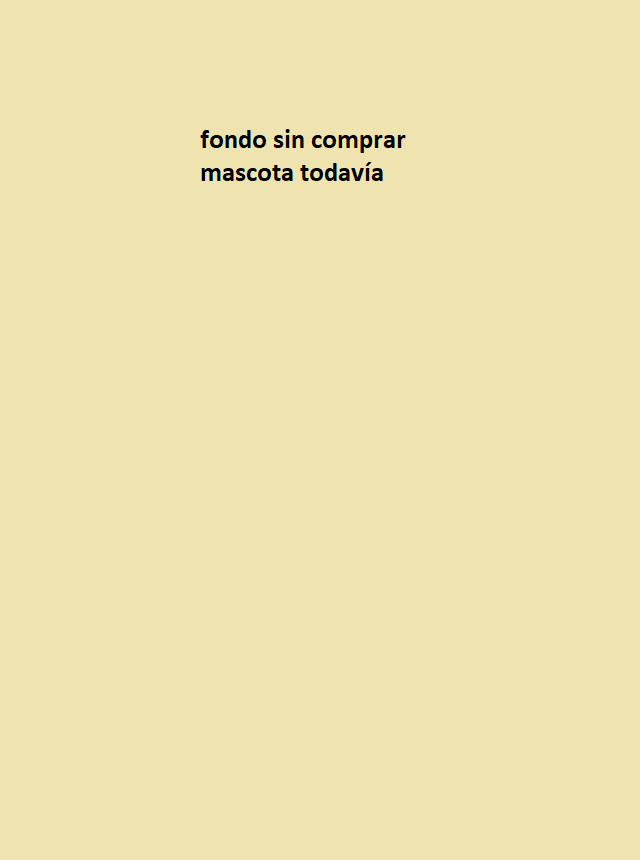
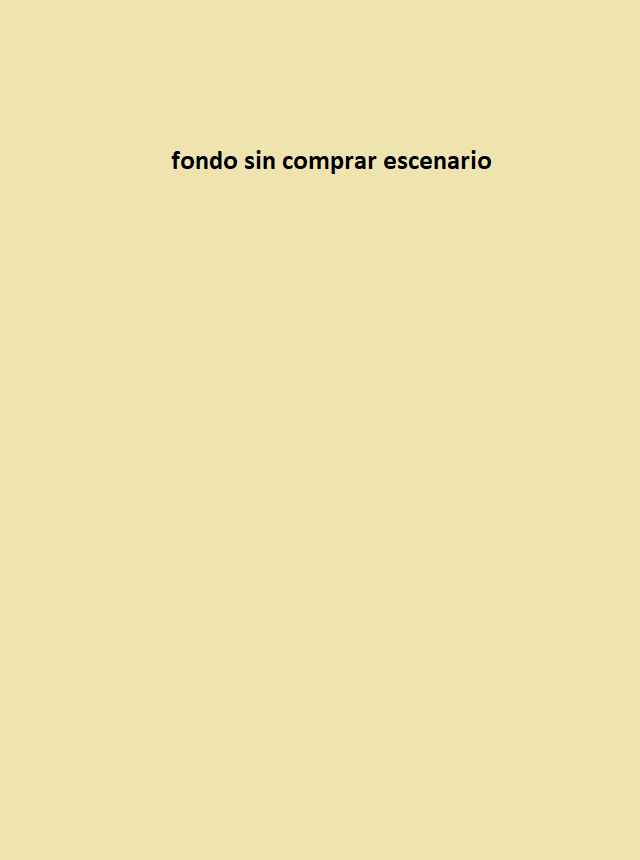
Implementación de que sea posible tener varios paneles escenario a la vez, y que VentanaPrincipal decida crearlos dependiendo de si los paneles existentes contienen un escenario o no.

Changed region(s): [[0.25, 0.1512, 0.7812, 0.2116]]

diff --git a/src/main/java/org/udec/visual/VentanaPrincipal.java b/src/main/java/org/udec/visual/VentanaPrincipal.java
@@ -2,20 +2,29 @@ package org.udec.visual;
 
 import javax.swing.*;
 import java.awt.*;
+import java.util.ArrayList;
 import java.util.List;
 
-public class VentanaPrincipal extends JFrame {
+public class VentanaPrincipal extends JFrame implements EscenarioListener{
 
     public static final int ANCHO = 640;
     public static final int ALTO = 860;
 
+    // Panel que contiene los escenarios
     private JPanel cardPanel;
     private CardLayout cardLayout;
     private List<PanelEscenario> panelesEscenario;
 
+    // Variables para controlar paneles de escenario.
     private int indiceActual = 0;
     private int contadorPaneles = 0;
     private final int MAX_PANELES = 10; // Cantidad máxima de escenarios que pueden existir.
+
+    // Panel que permite poner botones superpuestos a los paneles de escenario
+    private JLayeredPane panelCapas;
+    private JButton botonIzquierda;
+    private JButton botonDerecha;
+    private JLabel labelIndice;
 
     public VentanaPrincipal(){
         this.setTitle("Simulador de mascota");
@@ -24,7 +33,85 @@ public class VentanaPrincipal extends JFrame {
         this.setResizable(false);
         this.setLocationRelativeTo(null);
 
-        this.add(new PanelEscenario());
+        panelCapas = new JLayeredPane();
+        panelCapas.setPreferredSize(new Dimension(ANCHO, ALTO));
+        panelCapas.setLayout(null);
+
+        cardPanel = new JPanel();
+        cardLayout = new CardLayout();
+        cardPanel.setLayout(cardLayout);
+        cardPanel.setBounds(0, 0, ANCHO, ALTO);
+
+        panelesEscenario = new ArrayList<>();
+        PanelEscenario panelInicial = new PanelEscenario();
+        addPanelToCardLayout(panelInicial);
+
+        // Botones de navegación
+        botonIzquierda = new JButton("<");
+        botonIzquierda.setBounds(20, ALTO / 2 - 40, 60, 40);
+        botonIzquierda.setFocusable(false);
+        botonIzquierda.addActionListener(e -> cambiarPanel(-1));
+
+        botonDerecha = new JButton(">");
+        botonDerecha.setBounds(ANCHO - 80, ALTO / 2 - 40, 60, 40);
+        botonDerecha.setFocusable(false);
+        botonDerecha.addActionListener(e -> cambiarPanel(1));
+
+
+        // Label para mostrar el índice actual
+        labelIndice = new JLabel();
+        labelIndice.setFont(new Font("Arial", Font.BOLD, 16));
+        labelIndice.setHorizontalAlignment(SwingConstants.CENTER);
+        labelIndice.setBounds(0, 10, ANCHO, 30);
+        actualizarLabelIndice();
+
+
+        // Añadir componentes al layeredPane
+        panelCapas.add(cardPanel, JLayeredPane.DEFAULT_LAYER);
+        panelCapas.add(botonIzquierda, JLayeredPane.PALETTE_LAYER);
+        panelCapas.add(botonDerecha, JLayeredPane.PALETTE_LAYER);
+        panelCapas.add(labelIndice, JLayeredPane.PALETTE_LAYER);
+
+        this.setContentPane(panelCapas);
+        this.pack();
         this.setVisible(true);
     }
+
+    // Método auxiliar para añadir paneles y mantener el contador
+    private void addPanelToCardLayout(PanelEscenario panel) {
+        panel.setEscenarioListener(this);
+        panelesEscenario.add(panel);
+        cardPanel.add(panel, "Panel" + contadorPaneles);
+        contadorPaneles++;
+    }
+
+    // Método para actualizar el texto del label
+    private void actualizarLabelIndice() {
+        labelIndice.setText((indiceActual + 1) + " / " + panelesEscenario.size());
+    }
+
+    private void cambiarPanel(int direccion) {
+        int totalPaneles = panelesEscenario.size();
+        indiceActual = (indiceActual + direccion + totalPaneles) % totalPaneles;
+        cardLayout.show(cardPanel, "Panel" + indiceActual);
+        actualizarLabelIndice();
+    }
+
+
+    private boolean todosTienenEscenario() {
+        for (PanelEscenario p : panelesEscenario) {
+            if (!p.tieneEscenario()) return false;
+        }
+        return true;
+    }
+
+    @Override
+    public void escenarioInicializado(PanelEscenario panel) {
+        if(contadorPaneles < MAX_PANELES && todosTienenEscenario()){
+            PanelEscenario nuevoPanel = new PanelEscenario();
+            addPanelToCardLayout(nuevoPanel);
+            actualizarLabelIndice();
+        }
+    }
+
 }

diff --git a/src/main/java/org/udec/visual/PanelEscenario.java b/src/main/java/org/udec/visual/PanelEscenario.java
@@ -11,10 +11,13 @@ public class PanelEscenario extends JPanel {
 
     private Escenario escenario;
     private BufferedImage imagenEscenario;
+
     private Mascota mascota;
     private BufferedImage imagenMascota;
 
     private JButton botonAdoptarMascota; // Esto será su propia clase más adelante
+
+    private EscenarioListener escenarioListener;
 
     public PanelEscenario(){
         this.setVisible(true);
@@ -25,6 +28,10 @@ public class PanelEscenario extends JPanel {
         crearBotonAdoptarMascota();
     }
 
+    public void setEscenarioListener(EscenarioListener escenarioListener) {
+        this.escenarioListener = escenarioListener;
+    }
+
     private void crearBotonDeInicializarEscenario(){
         JButton boton = new JButton("Inicializar Escenario");
         boton.setFocusable(false);
@@ -33,6 +40,8 @@ public class PanelEscenario extends JPanel {
         boton.addActionListener(e -> {
             System.out.println("Inicializar Escenario prueba");
             escenario = EscenarioFactory.crearEscenario(TiposEnum.COMUN);
+
+            escenarioListener.escenarioInicializado(this);
             imagenEscenario = escenario.getImagenEscenario();
             boton.setVisible(false);
             repaint();
@@ -61,6 +70,10 @@ public class PanelEscenario extends JPanel {
         });
     }
 
+    public boolean tieneEscenario() {
+        return escenario != null;
+    }
+
     @Override
     protected void paintComponent(Graphics g) {
         super.paintComponent(g);
@@ -72,8 +85,8 @@ public class PanelEscenario extends JPanel {
 
         } else if (mascota != null) {
             g.setColor(Color.BLACK);
-            g.drawString("Mascota: " + mascota.getNombreAnimal(), 10, 20);
-            g.drawString("Nombre: " + mascota.getNombrePropio(), 10, 40);
+            g.setFont(new Font("Arial", Font.BOLD, 16));
+            g.drawString(mascota.getNombrePropio() + " - " + mascota.getNombreAnimal(), 10, 20);
             g.drawString("Salud: " + mascota.verSalud(), 10, 60);
             g.drawString("Hambre: " + mascota.verHambre(), 10, 80);
             g.drawString("Felicidad: " + mascota.verFelicidad(), 10, 100);

diff --git a/src/main/java/org/udec/Main.java b/src/main/java/org/udec/Main.java
@@ -10,15 +10,6 @@ public class Main {
 
         System.out.println(TiposEnum.ROEDOR.mascotasCompatibles());
 
-        Escenario comun = EscenarioFactory.crearEscenario(TiposEnum.COMUN);
-        comun.fabricarMascota(MascotasEnum.GATO);
-
-        Mascota mascota = comun.getMascotaActual();
-        System.out.println(mascota.toString());
-        System.out.println("salud: " + mascota.verSalud());
-        System.out.println("hambre: " + mascota.verHambre());
-        System.out.println("felicidad: " + mascota.verFelicidad());
-
         SwingUtilities.invokeLater(VentanaPrincipal::new);
 
 

diff --git a/src/main/java/org/udec/visual/EscenarioListener.java b/src/main/java/org/udec/visual/EscenarioListener.java
@@ -1,0 +1,6 @@
+package org.udec.visual;
+
+// Para que el PanelEscenario pueda notificar a la VentanaPrincipal cuando exista un escenario ahí.
+public interface EscenarioListener {
+    void escenarioInicializado(PanelEscenario panel);
+}
